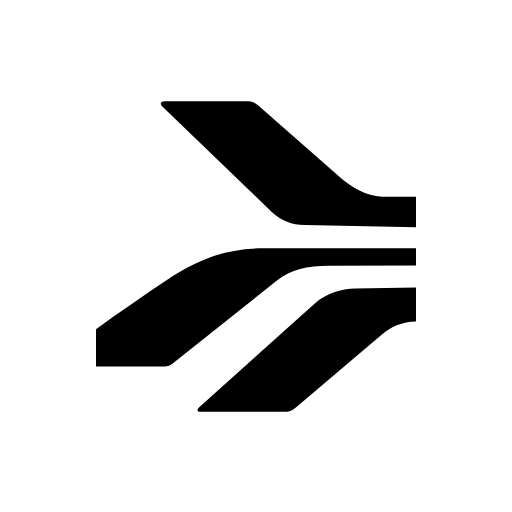
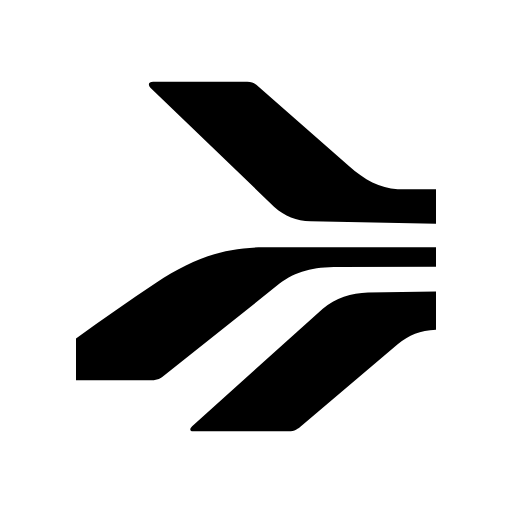
The Kaeso plugin asks for your install's address in Claude Code, and the console and skill connect claude.ai, the Claude apps and Cowork with a custom connector link (#1006)
## What changes

The Kaeso plugin now connects to any install wherever Claude runs, not
only in Claude Code.

- **Claude Code:** `plugins/kaeso/.mcp.json` declares the `kaeso` server
with `"url": "${user_config.kaeso_mcp_url}"`, a whole-value reference to
a `userConfig` option. Claude Code asks for the install's MCP address on
install, and `/plugin configure kaeso@kaeso` changes it later. The
option isn't required, so leaving it empty still installs the skill.
- **claude.ai, the desktop and mobile apps, and Cowork:** these can't
run commands or prompt for plugin options, so the skill's **Connecting
Kaeso** section now gives a prefilled custom connector link
(`https://claude.ai/customize/connectors?modal=add-custom-connector&connectorName=Kaeso&connectorUrl=…`)
and the **Customize › Connectors › Add custom connector** steps.
- **Console:** **Account › Agents** now says **Claude** instead of
Claude Code. Its dialog leads with an **Add to Claude** button that
opens that link with the install's own `/mcp` address. The Claude Code
command stays, and the plugin line tells people which address to enter
when they're asked.
- **Docs:** `api/mcp` gets a section for Claude on the web, desktop and
mobile, and Cowork, and describes the plugin's address prompt and
`/plugin configure`. Changed in en, de and zh-CN.
- **Icon:** the mark fills about 70% of the tile instead of about 62%,
in the Claude icon (PNG) and the Cursor logo (SVG), so it reads at the
small sizes the directories show.
[…]

diff --git a/apps/console/src/features/account/connect-client.tsx b/apps/console/src/features/account/connect-client.tsx
@@ -8,11 +8,13 @@ export const mcpUrl = (): string => `${window.location.origin}/mcp`;
 const VSCODE_CONFIG = ".vscode/mcp.json";
 const CLIENTS: readonly ClientMark[] = ["claude", "cursor", "github-copilot"];
 
-const clientName = (client: ClientMark): string => (client === "claude" ? "Claude Code" : client === "cursor" ? "Cursor" : "GitHub Copilot");
+const clientName = (client: ClientMark): string => (client === "claude" ? "Claude" : client === "cursor" ? "Cursor" : "GitHub Copilot");
 
 // Install links as Cursor and VS Code document them: https://cursor.com/docs/context/mcp/install-links and
 // https://code.visualstudio.com/docs/copilot/guides/mcp-developer-guide
 const cursorLink = (): string => `cursor://anysphere.cursor-deeplink/mcp/install?name=kaeso&config=${btoa(JSON.stringify({ url: mcpUrl() }))}`;
+const claudeLink = (): string =>
+  `https://claude.ai/customize/connectors?modal=add-custom-connector&connectorName=Kaeso&connectorUrl=${encodeURIComponent(mcpUrl())}`;
 const vscodeLink = (): string => `vscode:mcp/install?${encodeURIComponent(JSON.stringify({ name: "kaeso", type: "http", url: mcpUrl() }))}`;
 
 function Steps({ client }: { client: ClientMark }) {
@@ -20,12 +22,20 @@ function Steps({ client }: { client: ClientMark }) {
   if (client === "claude")
     return (
       <div className="flex flex-col gap-12">
+        <Button variant="primary" fullWidth href={claudeLink()} target="_blank" rel="noopener noreferrer">
+          {t("account.addToClaude", "Add to Claude")}
+        </Button>
         <Text variant="small" tone="secondary">
-          {t("account.connectClaudeServer", "Connect the server, then run /mcp to sign in.")}
+          {t("account.connectClaudeApps", "For claude.ai, the desktop and mobile apps and Cowork: this adds Kaeso as a custom connector.")}
+        </Text>
+        <Text variant="small" tone="secondary">
+          {t("account.connectClaudeServer", "In Claude Code, connect the server, then run /mcp to sign in.")}
         </Text>
         <CodeBlock copy lang="bash" code={`claude mcp add --transport http --scope user kaeso ${mcpUrl()}`} />
         <Text variant="small" tone="secondary">
-          {t("account.connectClaudePlugin", "The plugin adds Kaeso's skill, which teaches your agent the tools and can connect the server too.")}
+          {t("account.connectClaudePlugin", "Or install the plugin, which adds Kaeso's skill, and enter {url} when it asks for the address.", {
+            url: mcpUrl(),
+          })}
         </Text>
         <CodeBlock copy lang="text" code="/plugin install kaeso --marketplace logicplanes/kaeso" />
       </div>

diff --git a/apps/console/src/features/account/agents-page.test.tsx b/apps/console/src/features/account/agents-page.test.tsx
@@ -52,16 +52,21 @@ describe("the agents tab", () => {
     expect(screen.getByText(`${window.location.origin}/mcp`)).toBeInTheDocument();
   });
 
-  it("shows how to add this instance's MCP server to Claude Code, Cursor and GitHub Copilot", async () => {
+  it("shows how to add this instance's MCP server to Claude, Cursor and GitHub Copilot", async () => {
     signedIn();
     agentApi();
     const { user } = await renderApp("/settings/account/agents");
     const url = `${window.location.origin}/mcp`;
-    await user.click(await screen.findByRole("button", { name: "Add to Claude Code" }));
-    let dialog = await screen.findByRole("dialog", { name: "Add Kaeso to Claude Code" });
-    expect(within(dialog).getByText("Connect the server, then run /mcp to sign in.")).toBeInTheDocument();
+    await user.click(await screen.findByRole("button", { name: "Add to Claude" }));
+    let dialog = await screen.findByRole("dialog", { name: "Add Kaeso to Claude" });
+    const connector = new URL(within(dialog).getByRole("link", { name: "Add to Claude" }).getAttribute("href") ?? "");
+    expect(`${connector.origin}${connector.pathname}`).toBe("https://claude.ai/customize/connectors");
+    expect(connector.searchParams.get("modal")).toBe("add-custom-connector");
+    expect(connector.searchParams.get("connectorName")).toBe("Kaeso");
+    expect(connector.searchParams.get("connectorUrl")).toBe(url);
+    expect(within(dialog).getByText("In Claude Code, connect the server, then run /mcp to sign in.")).toBeInTheDocument();
     await waitFor(() => expect(dialog).toHaveTextContent(`claude mcp add --transport http --scope user kaeso ${url}`));
-    expect(within(dialog).getByText("The plugin adds Kaeso's skill, which teaches your agent the tools and can connect the server too.")).toBeInTheDocument();
+    expect(within(dialog).getByText(`Or install the plugin, which adds Kaeso's skill, and enter ${url} when it asks for the address.`)).toBeInTheDocument();
     await waitFor(() => expect(dialog).toHaveTextContent("/plugin install kaeso --marketplace logicplanes/kaeso"));
     expect(within(dialog).queryByRole("tab")).toBeNull();
     await user.click(within(dialog).getByRole("button", { name: "Finish" }));

diff --git a/apps/docs/content/de/api/mcp.md b/apps/docs/content/de/api/mcp.md
@@ -20,19 +20,29 @@ Führen Sie dann `/mcp` in Claude Code aus und wählen Sie `kaeso`, um sich anzu
 
 Jeder Client unten meldet sich selbst per OAuth an. Er findet die Anmeldung von Kaeso in der ersten Antwort des Servers, registriert sich und öffnet Ihren Browser, sodass Sie nie einen Schlüssel kopieren.
 
-**Konto** › **Agenten** in der Konsole zeigt die MCP-Adresse Ihrer Installation neben den Zeichen von Claude Code, Cursor und GitHub Copilot. Jedes öffnet die Schritte für diesen Client, mit der Adresse Ihrer Installation: den Befehl und das Plugin für Claude Code, **Zu Cursor hinzufügen** und **Zu VS Code hinzufügen** für GitHub Copilot.
+**Konto** › **Agenten** in der Konsole zeigt die MCP-Adresse Ihrer Installation neben den Zeichen von Claude, Cursor und GitHub Copilot. Jedes öffnet die Schritte für diesen Client, mit der Adresse Ihrer Installation: **Zu Claude hinzufügen** sowie Befehl und Plugin für Claude Code, **Zu Cursor hinzufügen** und **Zu VS Code hinzufügen** für GitHub Copilot.
 
 ### Claude Code
 
-Der Befehl oben fügt den Server dem aktuellen Projekt hinzu. Mit `--scope user` steht er in jedem Projekt bereit. `/mcp` meldet an, auch erneut, nachdem Sie den Agenten widerrufen haben.
+Der Befehl oben fügt den Server dem aktuellen Projekt hinzu. Mit `--scope user` steht er in jedem Projekt bereit. `/mcp` meldet an und meldet erneut an, nachdem Sie den Agenten widerrufen haben.
 
-Das Kaeso-Plugin fügt den Skill von Kaeso hinzu. Er bringt dem Agenten die Tools des Servers bei und fragt, wenn der Server noch nicht verbunden ist, nach der Adresse Ihrer Installation und verbindet ihn:
+Das Kaeso-Plugin fügt den Skill von Kaeso hinzu, der dem Agenten die Tools des Servers beibringt. Claude Code fragt bei der Installation nach der Adresse Ihrer Installation, etwa `https://kaeso.example.com/mcp`, und verbindet den Server für Sie:
 
 ```text
 /plugin install kaeso --marketplace logicplanes/kaeso
 ```
 
-Damit Sie jede Version des Plugins erhalten, schalten Sie unter `/plugin` › **Marketplaces** die automatische Aktualisierung für den Marketplace `kaeso` ein.
+Um die Adresse später zu ändern, führen Sie `/plugin configure kaeso@kaeso` aus. Damit Sie jede Version des Plugins erhalten, schalten Sie unter `/plugin` › **Marketplaces** die automatische Aktualisierung für den Marketplace `kaeso` ein.
+
+### Claude im Web, auf dem Desktop und mobil sowie Cowork
+
+Hier lassen sich keine Befehle ausführen, also fügen Sie Kaeso als benutzerdefinierten Connector hinzu. Öffnen Sie **Customize** › **Connectors**, wählen Sie **Add custom connector**, geben Sie `Kaeso` als Namen und die MCP-Adresse Ihrer Installation ein, wählen Sie **Connect** und melden Sie sich an. Oder öffnen Sie diesen Link mit der prozentcodierten Adresse Ihrer Installation hinter `connectorUrl=`, der das Formular ausfüllt:
+
+```text
+https://claude.ai/customize/connectors?modal=add-custom-connector&connectorName=Kaeso&connectorUrl=https%3A%2F%2Fkaeso.example.com%2Fmcp
+```
+
+Die Schaltfläche **Zu Claude hinzufügen** der Konsole erstellt diesen Link mit der Adresse Ihrer Installation. Ein neues Gespräch hat dann die Tools. Der Skill des Kaeso-Plugins nennt einem Agenten ohne Tools dieselben Schritte, Sie können Claude also auch bitten, Kaeso zu verbinden.
 
 ### Codex
 

diff --git a/apps/docs/content/zh-CN/api/mcp.md b/apps/docs/content/zh-CN/api/mcp.md
@@ -20,19 +20,29 @@ claude mcp add --transport http kaeso https://kaeso.example.com/mcp
 
 下面每种客户端都会自行通过 OAuth 登录。它从服务器的第一个响应中找到 Kaeso 的登录方式，完成注册并打开您的浏览器，您无需复制任何密钥。
 
-控制台中的**账户** › **智能体**会在您实例的 MCP 地址旁显示 Claude Code、Cursor 和 GitHub Copilot 的标志。点击任一标志即可打开该客户端的步骤，并已填好您实例的地址：Claude Code 的命令和插件、**添加到 Cursor**，以及用于 GitHub Copilot 的**添加到 VS Code**。
+控制台中的**账户** › **智能体**会在您实例的 MCP 地址旁显示 Claude、Cursor 和 GitHub Copilot 的标志。点击任一标志即可打开该客户端的步骤，并已填好您实例的地址：**添加到 Claude** 以及 Claude Code 的命令和插件、**添加到 Cursor**，以及用于 GitHub Copilot 的**添加到 VS Code**。
 
 ### Claude Code
 
-上面的命令把服务器添加到当前项目。加上 `--scope user` 可在所有项目中使用。`/mcp` 负责登录，撤销智能体后也用它重新登录。
+上面的命令会把服务器添加到当前项目。加上 `--scope user` 后，它在每个项目中都可用。`/mcp` 用于登录，撤销智能体之后也用它重新登录。
 
-Kaeso 插件会添加 Kaeso 的技能。它教智能体使用服务器的工具；如果服务器尚未连接，它会询问您实例的地址并完成连接：
+Kaeso 插件会添加 Kaeso 的技能，它教智能体使用服务器的工具。安装时 Claude Code 会询问您实例的地址，例如 `https://kaeso.example.com/mcp`，并为您连接服务器：
 
 ```text
 /plugin install kaeso --marketplace logicplanes/kaeso
 ```
 
-要获得插件的每个新版本，请在 `/plugin` › **Marketplaces** 中为 `kaeso` 市场开启自动更新。
+之后要更改地址，请运行 `/plugin configure kaeso@kaeso`。要获得插件的每个新版本，请在 `/plugin` › **Marketplaces** 中为 `kaeso` 市场开启自动更新。
+
+### 网页版、桌面版和移动版 Claude 以及 Cowork
+
+这些环境无法运行命令，请将 Kaeso 添加为自定义连接器。打开**Customize** › **Connectors**，选择 **Add custom connector**，名称填 `Kaeso`，再填入实例的 MCP 地址，然后选择 **Connect** 并登录。也可以打开下面的链接，在 `connectorUrl=` 之后填入经百分号编码的实例地址，表单会自动填好：
+
+```text
+https://claude.ai/customize/connectors?modal=add-custom-connector&connectorName=Kaeso&connectorUrl=https%3A%2F%2Fkaeso.example.com%2Fmcp
+```
+
+控制台的**添加到 Claude** 按钮会用您实例的地址生成这个链接。之后的新对话就有这些工具。Kaeso 插件的技能会向还没有工具的智能体给出同样的步骤，所以您也可以直接请 Claude 连接 Kaeso。
 
 ### Codex
 

diff --git a/apps/docs/content/en/api/mcp.md b/apps/docs/content/en/api/mcp.md
@@ -20,19 +20,29 @@ Then run `/mcp` in Claude Code and choose `kaeso` to sign in. Your browser opens
 
 Each client below signs in with OAuth on its own. It finds Kaeso's sign-in from the server's first answer, registers itself and opens your browser, so you never copy a key.
 
-**Account** › **Agents** in the console shows your install's MCP address next to the marks of Claude Code, Cursor and GitHub Copilot. Each opens the steps for that client, with your install's address filled in: the command and the plugin for Claude Code, **Add to Cursor**, and **Add to VS Code** for GitHub Copilot.
+**Account** › **Agents** in the console shows your install's MCP address next to the marks of Claude, Cursor and GitHub Copilot. Each opens the steps for that client, with your install's address filled in: **Add to Claude** and the Claude Code command and plugin, **Add to Cursor**, and **Add to VS Code** for GitHub Copilot.
 
 ### Claude Code
 
 The command above adds the server to the current project. Add `--scope user` to make it available in every project. `/mcp` signs in, and signs in again after you revoke the agent.
 
-The Kaeso plugin adds Kaeso's skill, which teaches the agent the server's tools and, if the server isn't connected yet, asks for your install's address and connects it:
+The Kaeso plugin adds Kaeso's skill, which teaches the agent the server's tools. Claude Code asks for your install's address, such as `https://kaeso.example.com/mcp`, when you install it, and connects the server for you:
 
 ```text
 /plugin install kaeso --marketplace logicplanes/kaeso
 ```
 
-To get each release of the plugin, turn on auto-update for the `kaeso` marketplace under `/plugin` › **Marketplaces**.
+To change the address later, run `/plugin configure kaeso@kaeso`. To get each release of the plugin, turn on auto-update for the `kaeso` marketplace under `/plugin` › **Marketplaces**.
+
+### Claude on the web, desktop and mobile, and Cowork
+
+These can't run commands, so add Kaeso as a custom connector. Open **Customize** › **Connectors**, choose **Add custom connector**, enter `Kaeso` as the name and your install's MCP address, then choose **Connect** and sign in. Or open this link with your install's address percent-encoded after `connectorUrl=`, which fills in the form:
+
+```text
+https://claude.ai/customize/connectors?modal=add-custom-connector&connectorName=Kaeso&connectorUrl=https%3A%2F%2Fkaeso.example.com%2Fmcp
+```
+
+The console's **Add to Claude** button builds this link with your install's address. A new conversation has the tools. The Kaeso plugin's skill gives the same steps to an agent that has no tools yet, so you can also ask Claude to connect Kaeso.
 
 ### Codex
 

diff --git a/plugins/kaeso/skills/kaeso/SKILL.md b/plugins/kaeso/skills/kaeso/SKILL.md
@@ -1,6 +1,6 @@
 ---
 name: kaeso
-description: Use when the user asks about their Kaeso AI gateway, such as its organizations, projects, API keys, models, aliases and their routes, provider keys, limits, usage, costs, request logs or audit log, or wants to change any of them. Also use it to connect Claude Code to their Kaeso install.
+description: Use when the user asks about their Kaeso AI gateway, such as its organizations, projects, API keys, models, aliases and their routes, provider keys, limits, usage, costs, request logs or audit log, or wants to change any of them. Also use it to connect Claude to their Kaeso install.
 ---
 
 # Working with Kaeso
@@ -9,11 +9,10 @@ Kaeso is a self-hosted AI gateway. The `kaeso` MCP server gives you one tool per
 
 ## Connecting Kaeso
 
-If the `kaeso` MCP tools aren't available, connect the server first:
+If the `kaeso` MCP tools aren't available, connect the server first. You need the address of the user's Kaeso install, such as `https://kaeso.example.com`; ask for it if you don't have it.
 
-1. Ask the user for the address of their Kaeso install, such as `https://kaeso.example.com`.
-2. Run `claude mcp add --transport http --scope user kaeso https://<their install>/mcp` with that address.
-3. Tell them to run `/mcp`, choose `kaeso` and sign in through their browser, where they choose what you may do. If `/mcp` doesn't list `kaeso` yet, they restart Claude Code first.
+- In Claude Code, the plugin asks for the server's address when it is installed, and `/plugin configure kaeso@kaeso` changes it. Otherwise run `claude mcp add --transport http --scope user kaeso https://<their install>/mcp`. Then tell them to run `/mcp`, choose `kaeso` and sign in through their browser, where they choose what you may do. If `/mcp` doesn't list `kaeso` yet, they restart Claude Code first.
+- In Claude on the web, in the desktop and mobile apps and in Cowork, you can't run commands. Give them the link `https://claude.ai/customize/connectors?modal=add-custom-connector&connectorName=Kaeso&connectorUrl=` followed by their install's address and `/mcp`, percent-encoded, so `https://kaeso.example.com/mcp` becomes `https%3A%2F%2Fkaeso.example.com%2Fmcp`. It opens **Add custom connector** with the values filled in. Or they open **Customize** › **Connectors**, choose **Add custom connector** and enter the name `Kaeso` and that address. After **Connect**, they sign in through their browser; a new conversation then has the tools.
 
 ## Calling the tools
 

diff --git a/plugins/kaeso/README.md b/plugins/kaeso/README.md
@@ -1,17 +1,25 @@
-# Kaeso plugin for Claude Code
+# Kaeso plugin for Claude
 
-Adds the Kaeso skill to Claude Code. It teaches your agent the tools of your self-hosted [Kaeso](https://kaeso.app) install's MCP server. The plugin itself needs no settings: when the server isn't connected yet, the skill asks for your install's address and connects it.
+Adds the Kaeso skill, and in Claude Code the connection to your self-hosted [Kaeso](https://kaeso.app) install's MCP server. The skill teaches your agent the server's tools. Your agent signs in through your browser, where you choose what it may do on the instance, in each organization and project, and on your account.
+
+Every install has its own address, so the plugin has none built in. The plugin sends nothing anywhere itself; your agent talks to the address you give it.
+
+## Claude Code
 
 ```text
 /plugin install kaeso --marketplace logicplanes/kaeso
 ```
 
-You can also connect the server yourself:
+The plugin asks for your install's address followed by `/mcp`, such as `https://kaeso.example.com/mcp`. Run `/plugin configure kaeso@kaeso` to change it, then `/mcp`, choose `kaeso` and sign in.
+
+Without the plugin, connect the server yourself:
 
 ```bash
 claude mcp add --transport http --scope user kaeso https://kaeso.example.com/mcp
 ```
 
-Then run `/mcp` and choose `kaeso` to sign in. Your browser opens your install's console, where you choose what the agent may do on the instance, in each organization and project, and on your account.
+## Claude on the web, desktop and mobile, and Cowork
+
+Claude asks for no address when you add a plugin, so add your install as a custom connector: open **Customize** › **Connectors**, choose **Add custom connector** and enter `Kaeso` and your address followed by `/mcp`. Or ask Claude to connect Kaeso: the skill gives you a link that fills the form in.
 
 Installation, sign-in and every tool are described in the [MCP server documentation](https://docs.kaeso.app/api/mcp).

diff --git a/plugins/kaeso-cursor/README.md b/plugins/kaeso-cursor/README.md
@@ -2,6 +2,8 @@
 
 Connects Cursor to your self-hosted [Kaeso](https://kaeso.app) install through its MCP server, and adds the Kaeso skill, which teaches your agent the server's tools. Your agent signs in through your browser, and you choose what it may do on the instance, in each organization and project, and on your account.
 
-Install **Kaeso** from the Cursor Marketplace. It asks for the address of your Kaeso install as `KAESO_URL`, such as `https://kaeso.example.com`, without a trailing slash.
+Install **Kaeso** from the Cursor Marketplace. It asks for the address of your Kaeso install as `KAESO_URL`, such as `https://kaeso.example.com`, without a trailing slash. Change it under **Plugins** › **Configure** in the Cursor dashboard.
+
+If Cursor doesn't ask, or you only want the connection, open **Account** › **Agents** in your Kaeso console and choose **Add to Cursor**, which adds the server with your install's address.
 
 Installation, sign-in and every tool are described in the [MCP server documentation](https://docs.kaeso.app/api/mcp).
